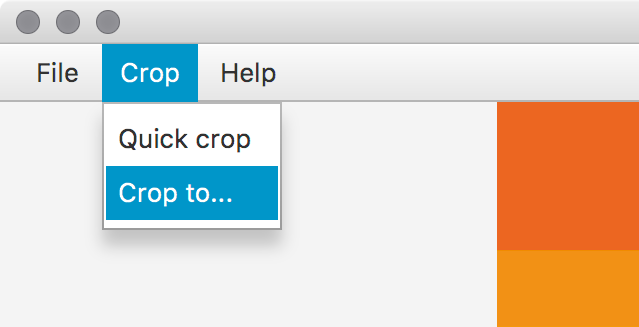
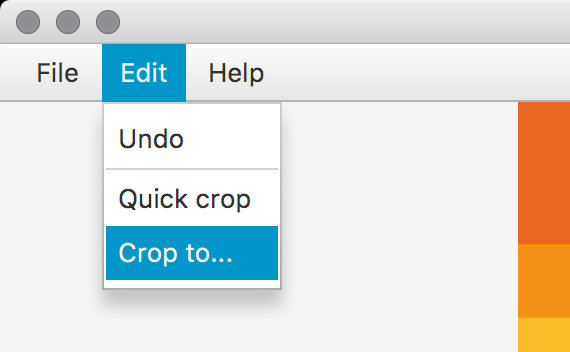
Update README.md

Changed region(s): [[0.0, 0.0306, 1.0, 1.0], [0.0, 0.0612, 0.0298, 0.0917], [0.0, 0.0, 0.0298, 0.0306]]

diff --git a/README.md b/README.md
@@ -12,9 +12,9 @@
 
     $ java -jar region_cropper_main.jar
 
-### 処理するディレクトリの選択（Select Directory）
+### 処理する画像・ディレクトリを選択（Drop Images or Directories）
 
-![Select Directory](images/select_directory.png)
+![Select Directory](images/drop_images_or_directories.png)
 
 ### 領域の追加（Add)
 
@@ -24,11 +24,13 @@
 
 現在選択中の領域は赤枠で示されます。
 
-![Set Region](images/set_region.png)
+![Set Region](images/selected_region.png)
 
-スペース（Space）キーを押すと、選択中の領域以外の場所がグレーアウトされます。
+スペース（Space）キーを押すと、選択中の領域がハイライトされます。
 
-![Set Region](images/focus_region.png)
+![Set Region](images/highlight_region.png)
+
+また、Shift + スペースでハイライト状態でロックできます。もう一度スペースを押すと、ロックを解除します。
 
 | キー | 動作 |
 |:-----------|:------------|
@@ -47,6 +49,7 @@
 | Alt または Option + 方向(←↑→↓) | 領域を「拡大（Expand）」 |
 | Windows または Command + 方向(←↑→↓) | 領域を「縮小（Shrink）」 |
 | 削除（Delete） | 領域を「削除（Delete）」 |
+| Ctrl + z | 元に戻す（Undo） |
 
 Shift を押すと、変化量が小さくなり微調整できます。
 
